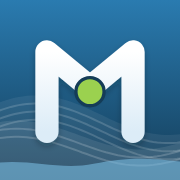
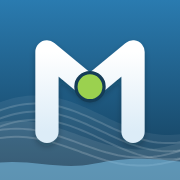
Ícone M: círculo mais acima

Changed region(s): [[0.3889, 0.3889, 0.6111, 0.6111]]

diff --git a/src/components/Logo.tsx b/src/components/Logo.tsx
@@ -20,7 +20,7 @@ export function LogoMark({ className = 'h-9 w-9', onDark = false }: { className?
 <path d="M48 150V54L100 97" fill="none" stroke="url(#rm-gv)" strokeWidth="28" strokeLinecap="round" strokeLinejoin="round"/>
 <path d="M100 97L152 54V150" fill="none" stroke="url(#rm-rv)" strokeWidth="28" strokeLinecap="round" strokeLinejoin="round"/>
 </g>
-<circle cx="100" cy="102" r="17" fill="#9bd14f" stroke="#143c57" strokeWidth="4"/>
+<circle cx="100" cy="96" r="17" fill="#9bd14f" stroke="#143c57" strokeWidth="4"/>
 
     </svg>
   )
